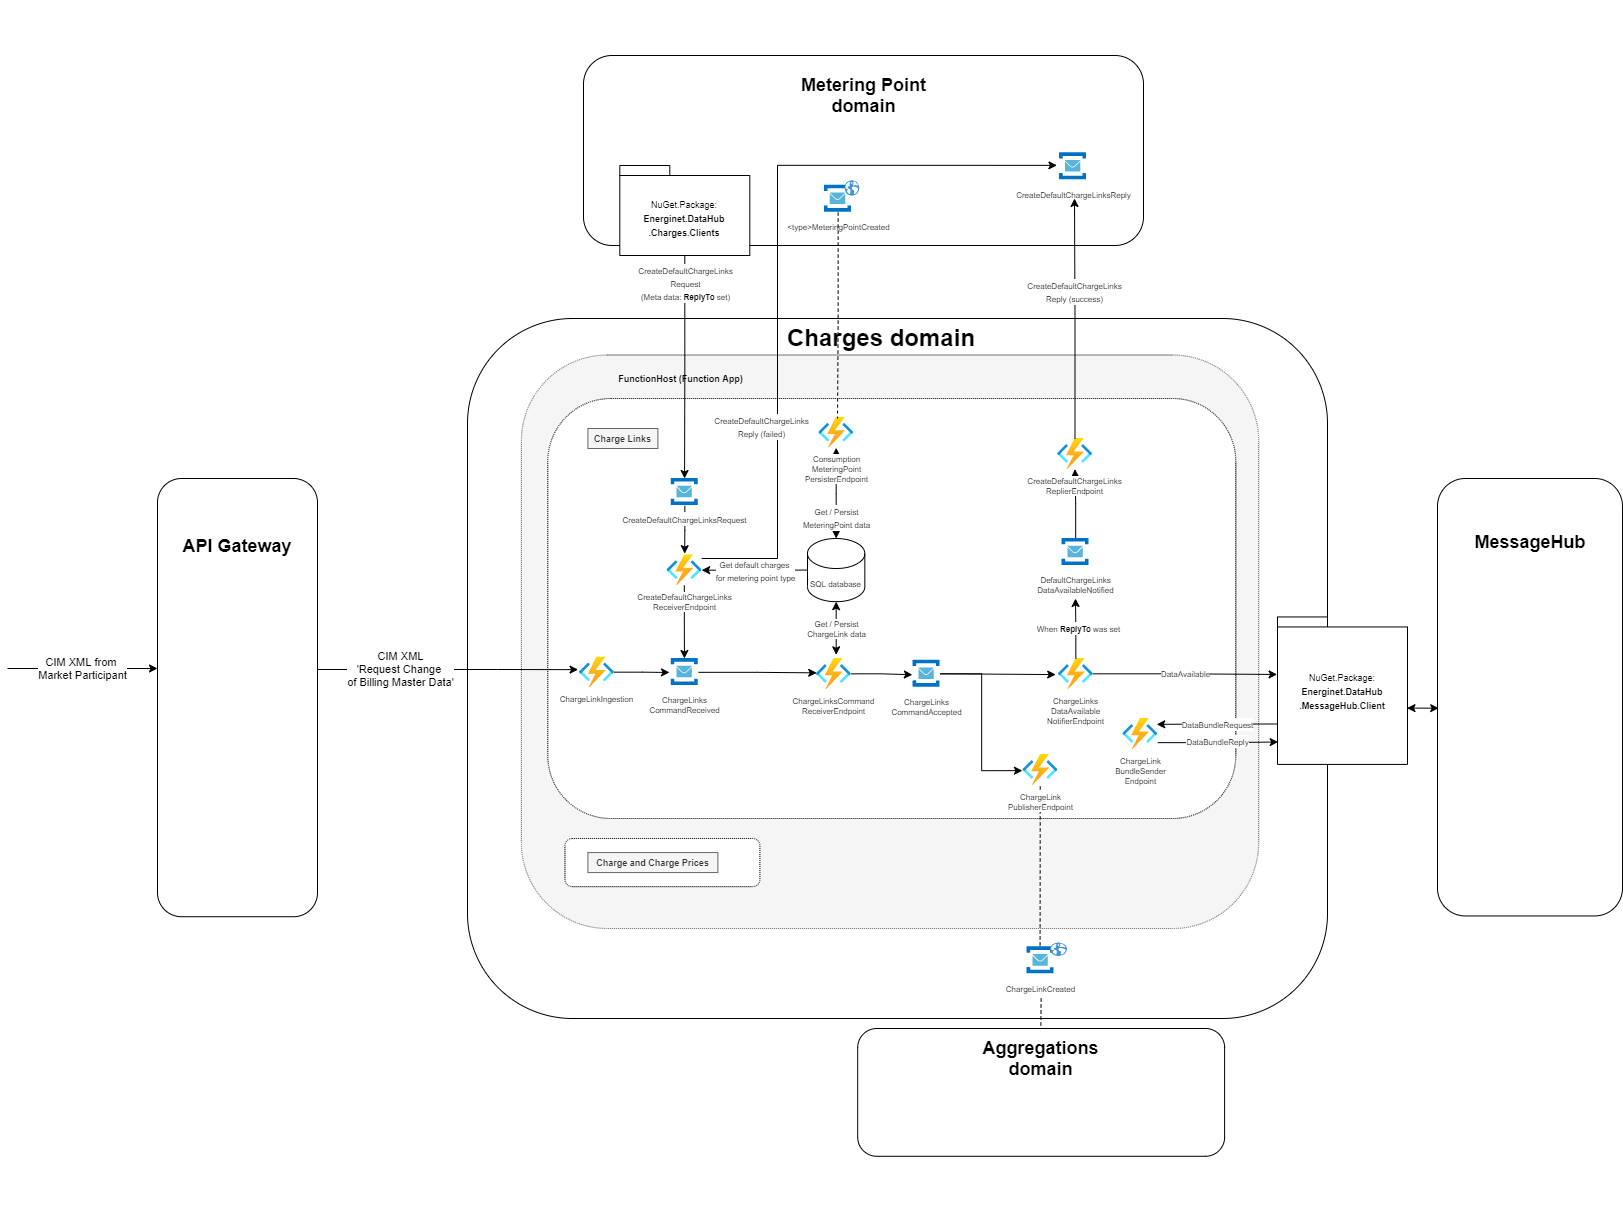
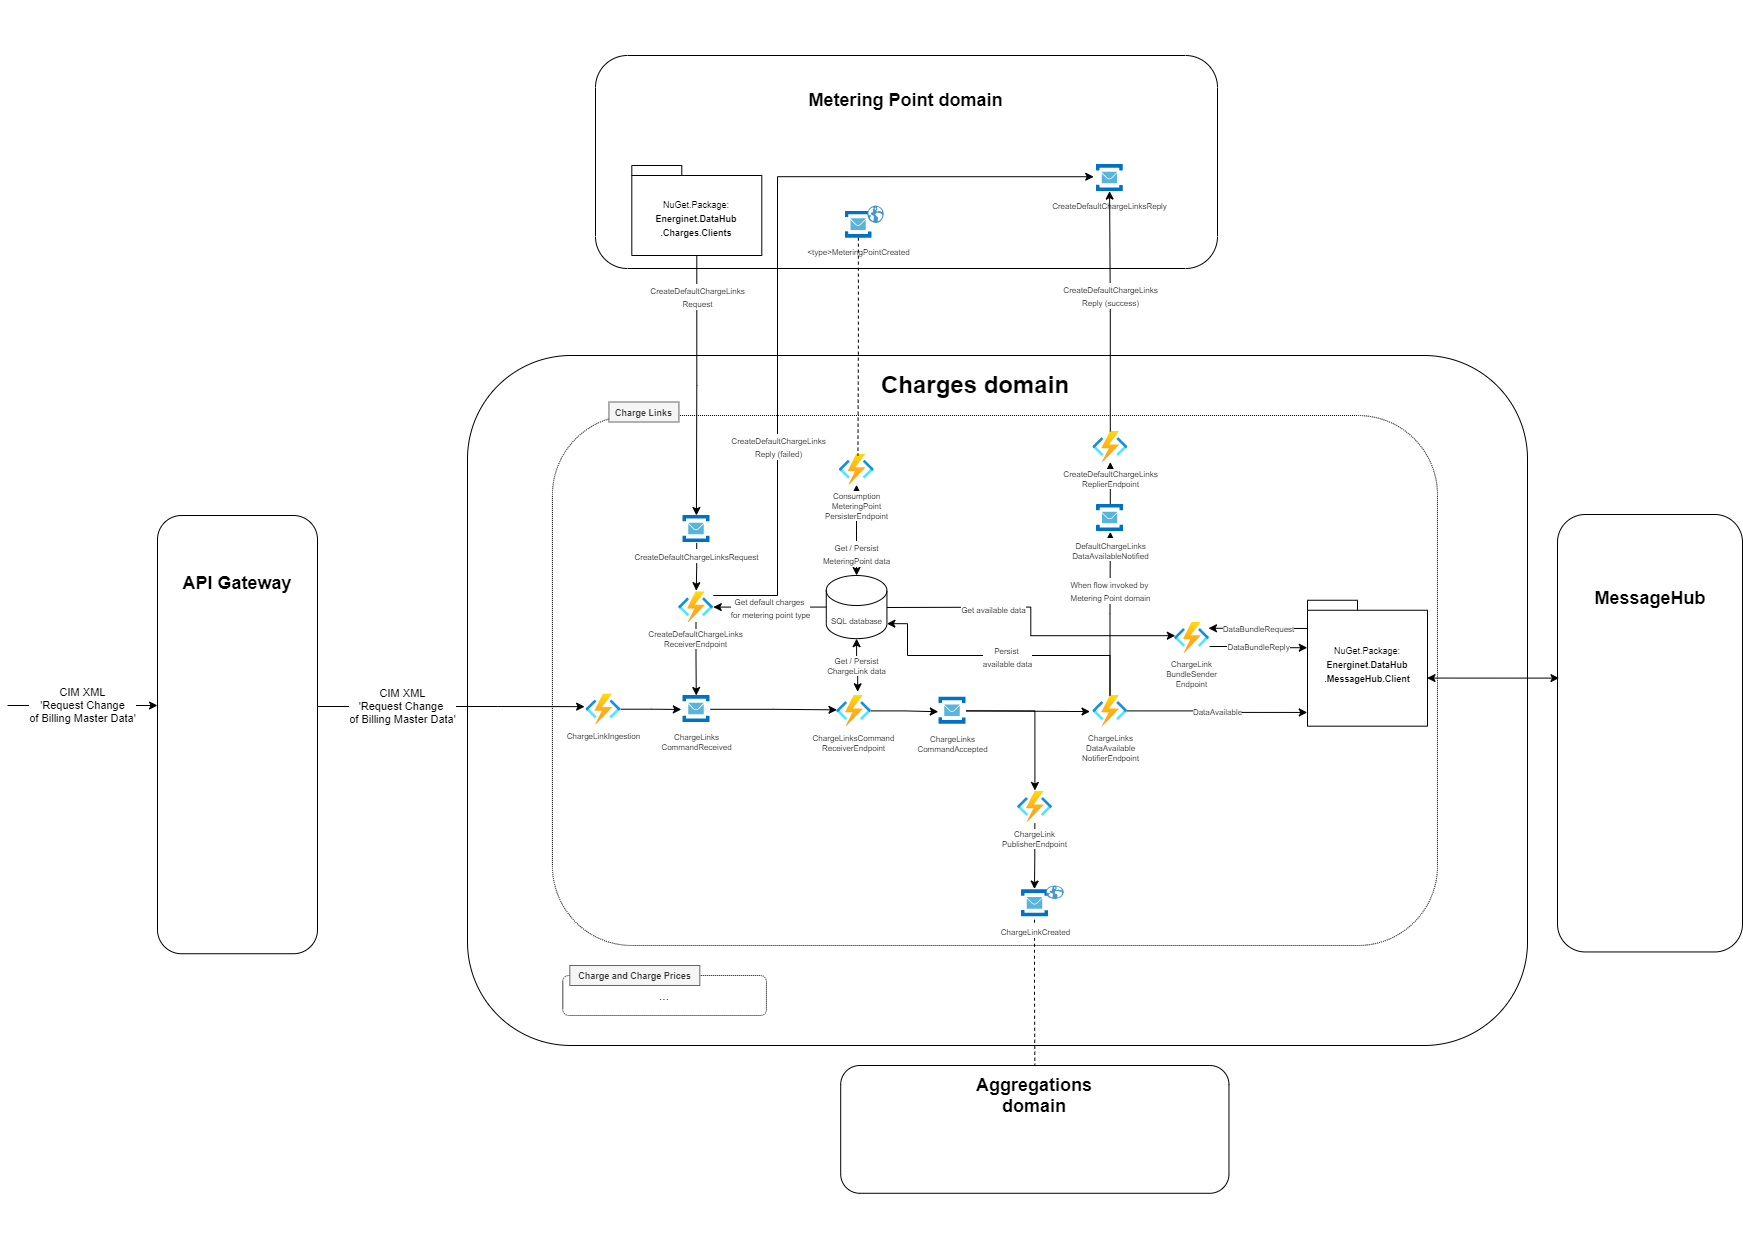
Diagram changes and added notes to readme

diff --git a/README.md b/README.md
@@ -34,11 +34,16 @@ The architecture diagrams below illustrate both current state of the Charges dom
 
 The diagrams depict the architecture of `Charge and Charge Prices` and `Charge Links`, respectively.
 
+Please note, all the azure functions displayed in the architecture diagrams are hosted in the same function host.
+Also, some components have singular names while others have plural names. This is intended. The components using plural may need to process a bundle of e.g. charge links to determine whether an operation, e.g. validation, was successfull.
+
 ### Charge and charge prices architecture
 
 ![Charge And Charge Prices](ARCHITECTURE-ChargeAndChargePrices.png)
 
-Note: As the integration between the Charges and MessageHub domains is yet to be established, the `ChargeConfirmation` and `ChargeRejection` events are temporarily placed in the Charges domain's Service Bus.
+Notes:
+
+- As the integration between the Charges and MessageHub domains is yet to be established, the `ChargeConfirmation` and `ChargeRejection` events are temporarily placed in the Charges domain's Service Bus.
 
 ### Charge links architecture
 
